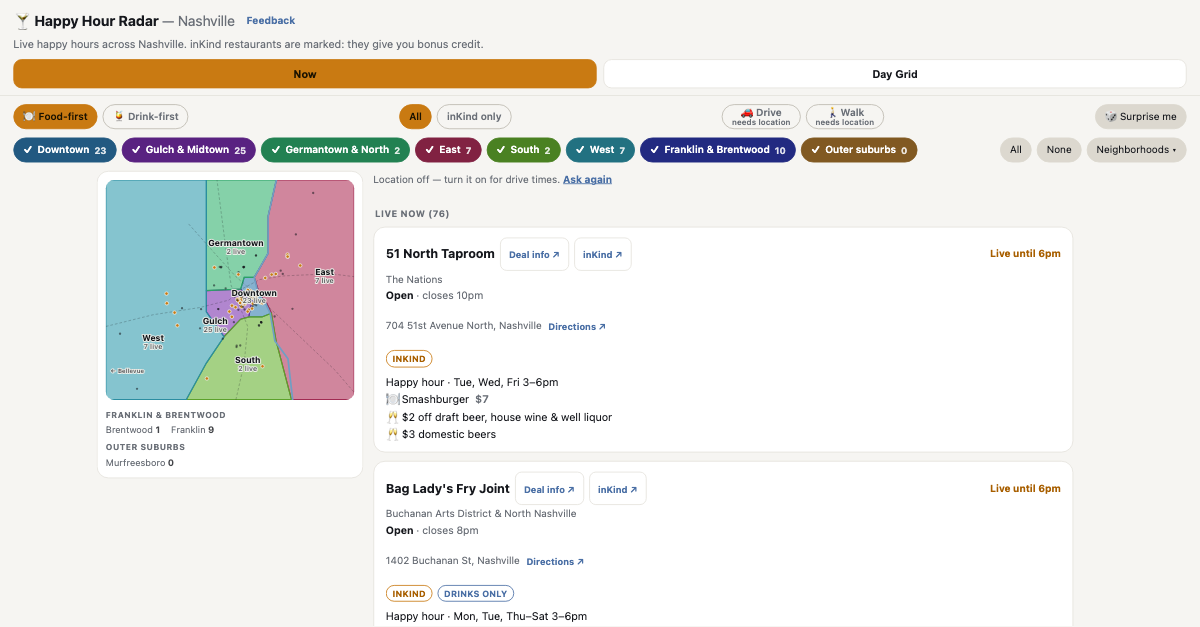
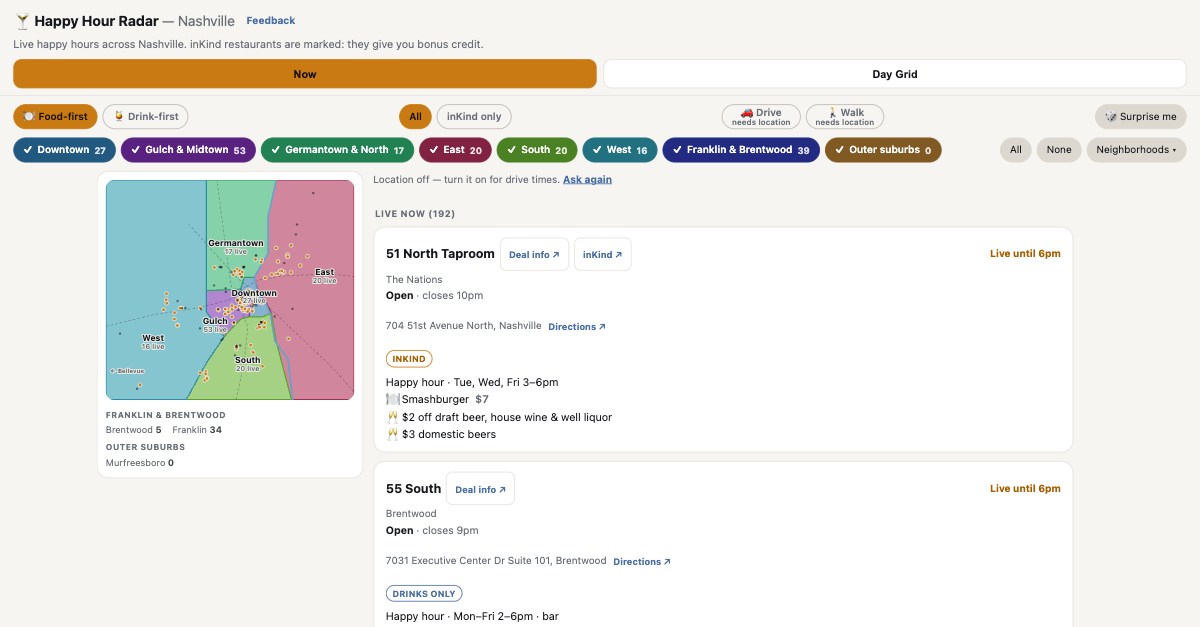
BLOCK-hh-radar-fix33: og-preview.png re-taken from the live v2.6 site

diff --git a/README.md b/README.md
@@ -126,7 +126,8 @@ and not-added file sit beside them. The hood rules they share live in `data-src/
 - `manifest.json`, `icon-192.png`, `icon-512.png`, `apple-touch-icon.png` — PWA install.
 - `og-preview.png` — the 1200x627 link-preview image (Open Graph / LinkedIn), a real
   screenshot of the NOW view taken with `?now=2026-10-27T17:30` (re-taken in v1.20 for the new subtitle and card
-  lines, and in v1.21 for the Blue Coast removal: light theme, storage cleared, referral bar dismissed, the v1.12 framing).
+  lines, and in v1.21 for the Blue Coast removal: light theme, storage cleared, referral bar dismissed, the v1.12 framing;
+  last re-taken from the live v2.6 site, all 7 zones: Live now 192).
 - `inkind-referral-qr.svg` — the QR for the inKind referral link, shown on desktop only.
 - `data-src/` — provenance: per-batch research JSON and the generator scripts. The raw inKind
   pulls are not published (removed 2026-10-29), so the scripts that read them need a fresh pull to re-run. Read-only history, not used at runtime. `data-src/refresh-20261023/`
